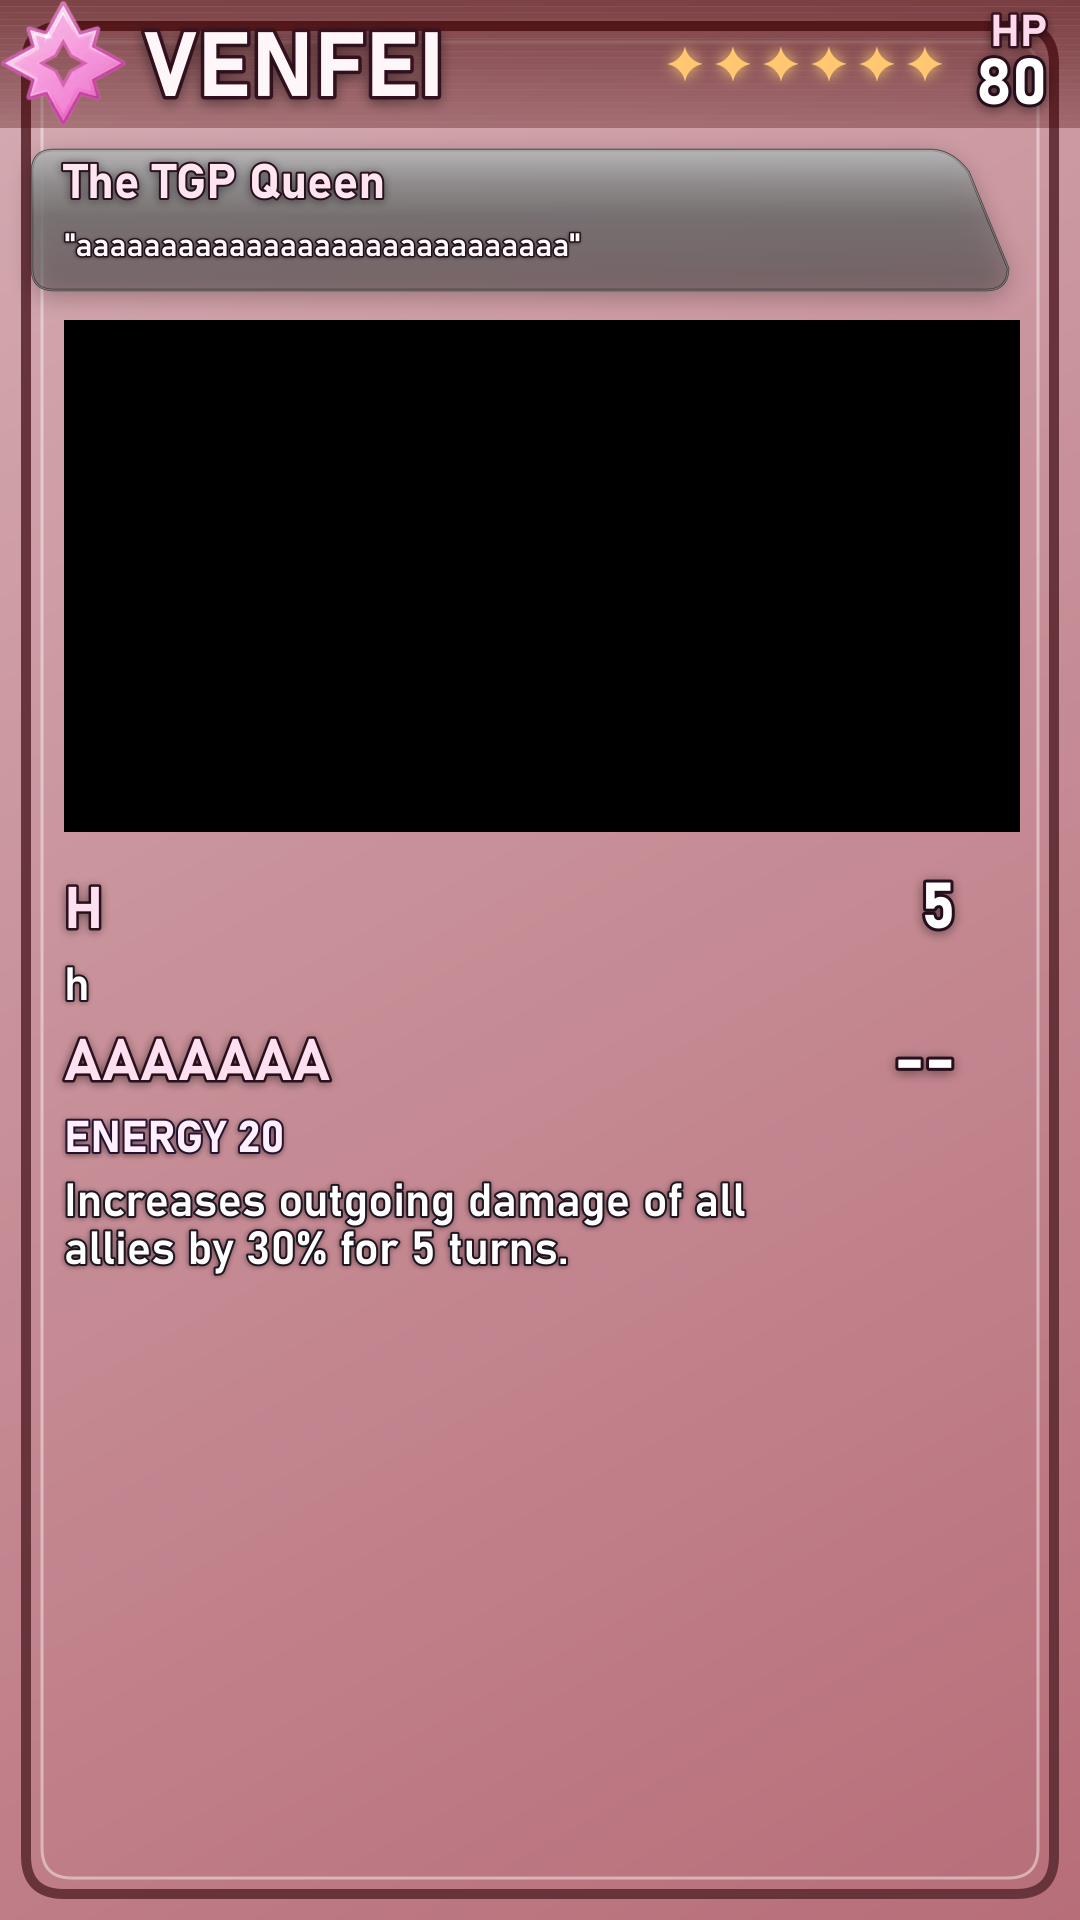
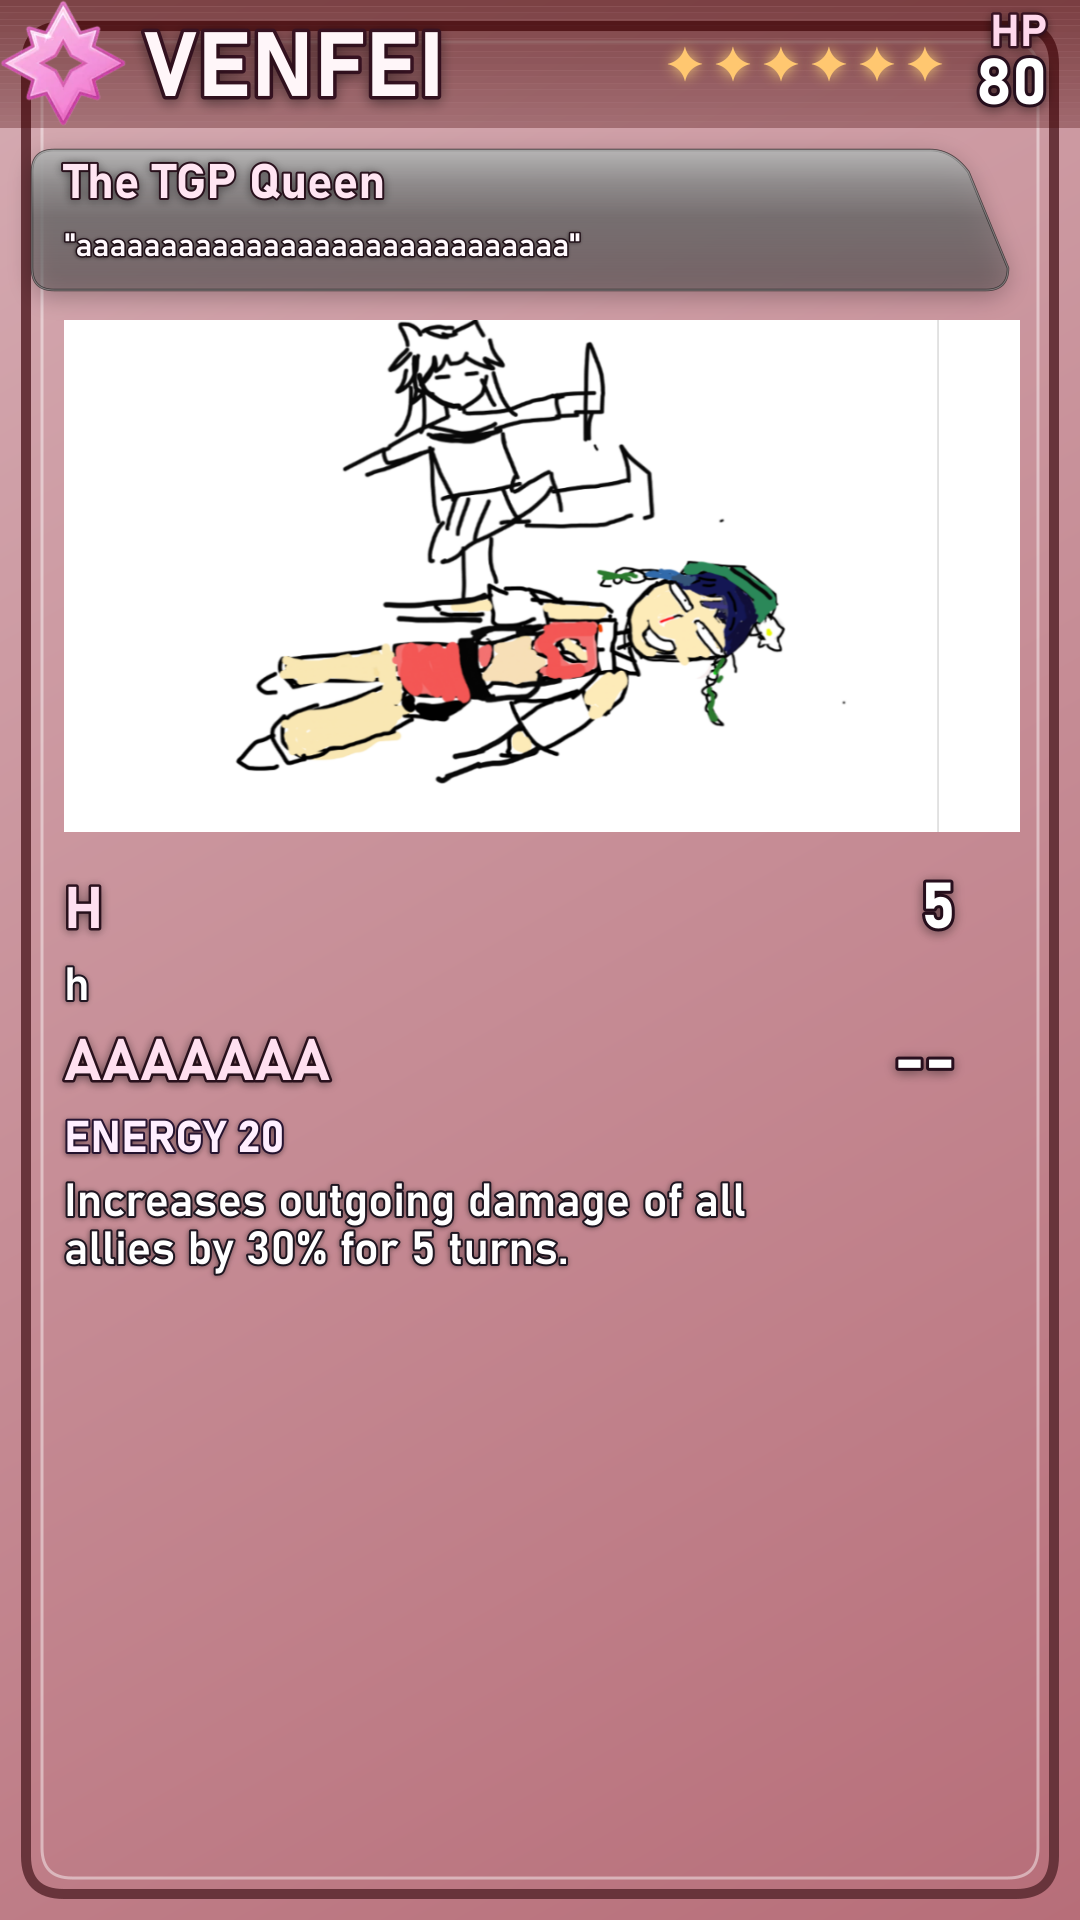
feat[card]: sparkle and venfei images

Changed region(s): [[0.0611, 0.1562, 0.9472, 0.4375]]

diff --git a/tcg/characters.ts b/tcg/characters.ts
@@ -160,7 +160,9 @@ export const VENFEI = createCharacter({
   hp: 80,
   element: Element.Fairy,
   imagePanel: {
-    mode: ImagePanelMode.None,
+    mode: ImagePanelMode.Background,
+    backgroundColor: '#FFFFFF',
+    imagePath: './tcg/assets/characters/venfei.png',
   },
   background: createSimpleBackground('#D5ABB2', '#B76E79'),
   textColors: FAIRY_TEXT_COLORS,
@@ -414,7 +416,9 @@ export const SPARKLE = createCharacter({
   hp: 80,
   element: Element.Quantum,
   imagePanel: {
-    mode: ImagePanelMode.None,
+    mode: ImagePanelMode.Background,
+    backgroundColor: '#000000',
+    imagePath: './tcg/assets/characters/sparkle.jpg',
   },
   background: createSimpleBackground('#5539CC', '#332266'),
   textColors: QUANTUM_TEXT_COLORS,
